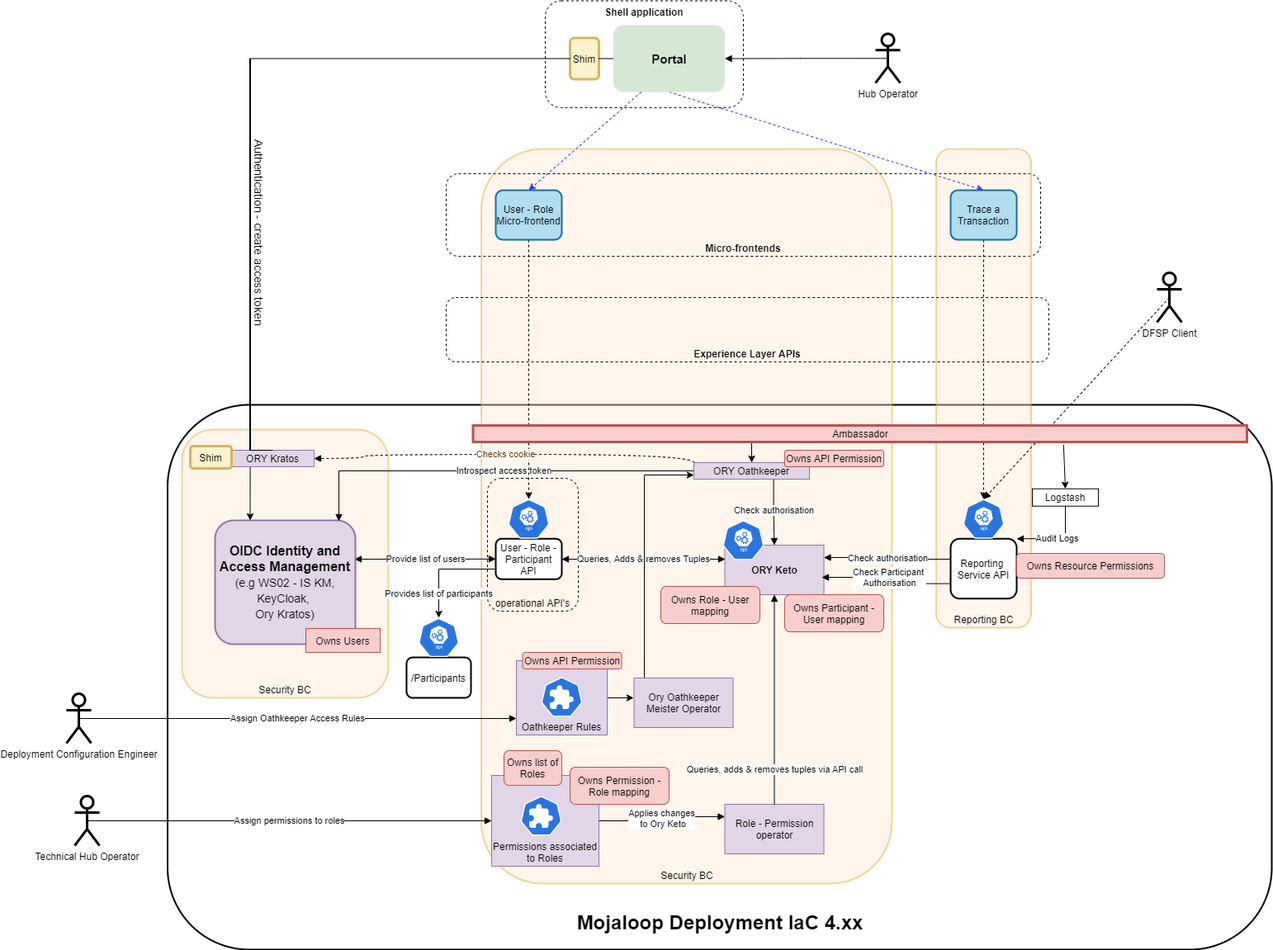
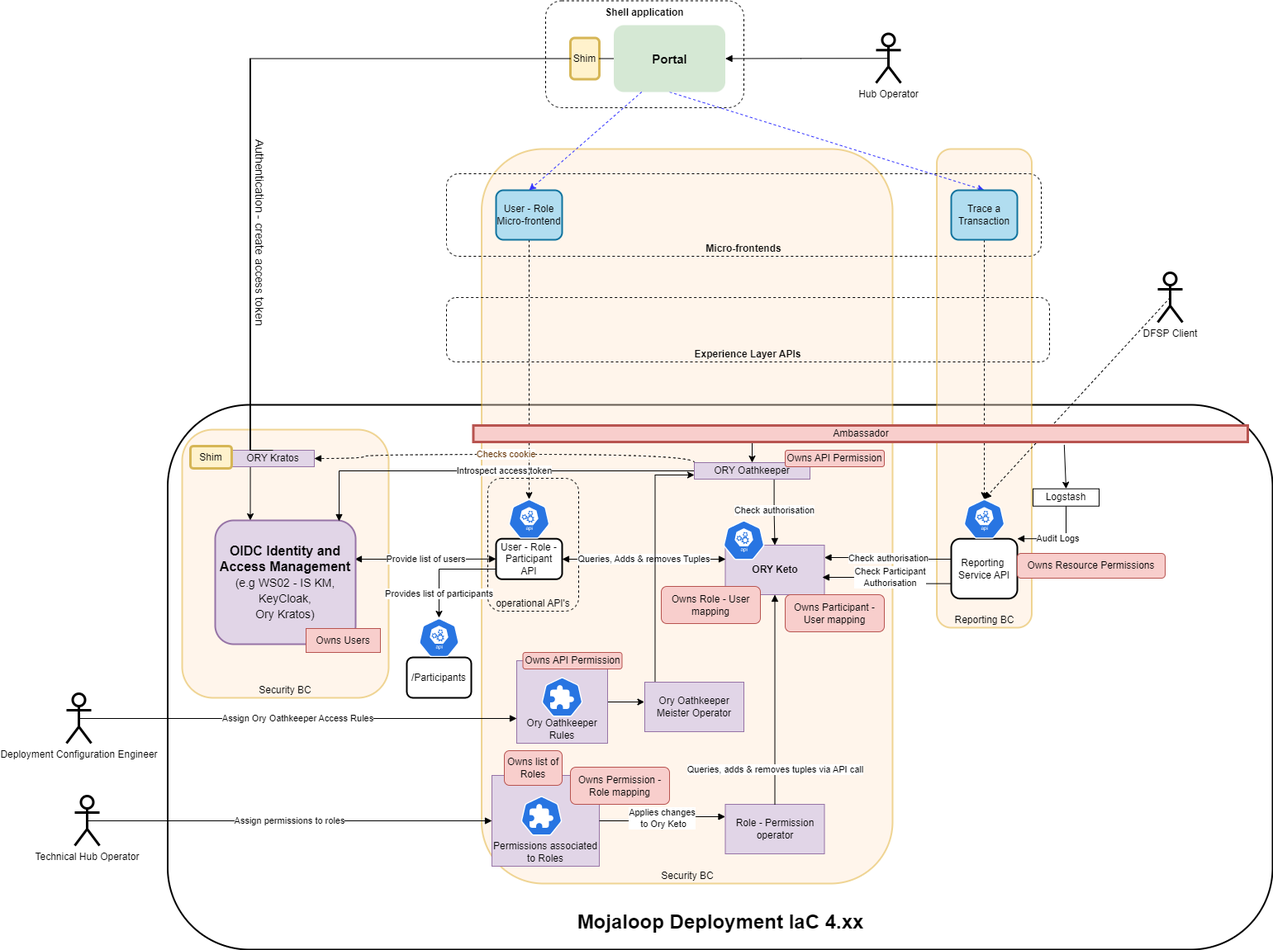
feat: Missing Ory and spelling (#36)

diff --git a/docs/guide/SecurityBC.md b/docs/guide/SecurityBC.md
@@ -13,7 +13,7 @@ The security design:
 1. Roles are assigned Permissions
 1. The Identity and Access Proxy (Ory Oathkeeper) enforces access to endpoints based on permission.
 1. Backend API can optionally check permissions through Keto API.
-1. Mutually exclusive permission sets can be defined in the system to enforce seperation of duties. 
+1. Mutually exclusive permission sets can be defined in the system to enforce separation of duties. 
 
 ## Enforcing Maker-Checker
 There are two approaches that can be taken to enforce a maker-checker validation flow.
@@ -34,7 +34,7 @@ Ory Oathkeeper is configured to use a 'header' mutator. This 'header' mutator wi
 X-User: wso2-uuid
 ```
 
-It is worth pointing out that JWT 'id_token' are also easily supported my modifying the Ory Oathkeeper mutator configuration. The 'id_token' mutator takes the authentication information (e.g. subject) and transforms it to a signed JSON Web Token, and more specifically to an OpenID Connect ID Token. The API backends can verify the token by fetching the (public) key from the /.well-known/jwks.json endpoint provided by the ORY Oathkeeper API.
+It is worth pointing out that JWT 'id_token' are also easily supported my modifying the Ory Oathkeeper mutator configuration. The 'id_token' mutator takes the authentication information (e.g. subject) and transforms it to a signed JSON Web Token, and more specifically to an OpenID Connect ID Token. The API backends can verify the token by fetching the (public) key from the /.well-known/jwks.json endpoint provided by the Ory Oathkeeper API.
 
 ### Checking authorisation
 All authorisation information is maintained within Ory Keto. Ory Keto has a standard API that can be called to check authorisation. 
@@ -60,7 +60,7 @@ Here is a table of the services and the roles they are playing.
 | Service | Owns | Implements |
 | --- | --- |
 |**WSO2 IS KM**|Users| 1. User login redirection and UI that creates the cookie token <br>2. Standard OpenID Connect (OIDC) authorization code flow |
-|**Ory Keto**|1. The roles mapped to users <br> 2. The participant mapped to users| 1. API RBAC authorization check through Oathkeeper<br>2. API RBAC authorization check through operational API call|
+|**Ory Keto**|1. The roles mapped to users <br> 2. The participant mapped to users| 1. API RBAC authorization check through Ory Oathkeeper<br>2. API RBAC authorization check through operational API call|
 |**Ory Oathkeeper**|The permissions related to API access | API gateway for operational APIs with authentication and authorization checks|
 |**Ory Kratos**|Nothing|Authentication cookie|
 |**BC Operational API**|The permissions related to the operational API calls|Operational API functions|
@@ -70,16 +70,16 @@ Here is a table of the services and the roles they are playing.
 |**Roles API**|Nothing|1. Role-user API controls <br>(list of users, list of roles, list of roles assigned to users, add role to user, remove role from user)<br> 2. Participant-user API controls <br>(list of users, list of participants, list of participants assigned to user, add participant to user, remove participant from user)|
 
 ## How does this design align with the reference architecture?
-Let's compare this RBAC Operational API implementation to the security bounded context as defined in the reference architecture. This design differs from the reference architecture in function, purpose and approach, but where appropriate has adopted some of the design ideas. This RBAC implementation's purpose is to adds a layer for security onto the operational API's of the bounded contexts. The Reference Architecture's Security Bounded Context design has been designed to accommodate for the performance requirments of the critical transactional functions of Mojaloop. 
+Let's compare this RBAC Operational API implementation to the security bounded context as defined in the reference architecture. This design differs from the reference architecture in function, purpose and approach, but where appropriate has adopted some of the design ideas. This RBAC implementation's purpose is to adds a layer for security onto the operational API's of the bounded contexts. The Reference Architecture's Security Bounded Context design has been designed to accommodate for the performance requirements of the critical transactional functions of Mojaloop. 
 Here are the high level areas where these designs diverge:
-1. The authorisation functions are centralised in this RBAC implementation. The reference architecture design requires a distributed authorisation that is implmented in each bounded context independently. This extra level of complexity is unnessary for the operational API use case.
-1. The reference architecture design requires interfaces to other bounded contexts to initiate the distributed authorisation functionallity. These have not been built for the reason that there are no components that exist that could consume these interfaces. 
+1. The authorisation functions are centralised in this RBAC implementation. The reference architecture design requires a distributed authorisation that is implemented in each bounded context independently. This extra level of complexity is unnecessary for the operational API use case.
+1. The reference architecture design requires interfaces to other bounded contexts to initiate the distributed authorisation functionality. These have not been built for the reason that there are no components that exist that could consume these interfaces. 
 1. The reference architecture requires the security BC to generate it's own security tokens. This RBAC implementation uses the tokens that are generated by the IAM.
-1. The reference architecture requires the permissions to be distributed through the JWT to each bounded context. This is possible to configure in the current toolset, but was not. The reason being that some security experts consider this distribution of user permission sets a security vulerability, and it was not a requirement for this current RBAC implementation.
+1. The reference architecture requires the permissions to be distributed through the JWT to each bounded context. This is possible to configure in the current toolset, but was not. The reason being that some security experts consider this distribution of user permission sets a security vulnerability, and it was not a requirement for this current RBAC implementation.
 
 There are parts of the security bounded context that have been adopted in this RBAC Operational API implementation.
-1. Each Bounded context owns it's own set of permissions or privledges
-1. The RBAC implementation owns all the associations of privledges to users.
+1. Each Bounded context owns it's own set of permissions or privileges
+1. The RBAC implementation owns all the associations of privileges to users.
 1. The user Role Permissions are structured so that they are easily distributed within a Kubernetes cluster.
 
 ## Alignment with IaC 4.xxx
@@ -93,9 +93,9 @@ A performance characterisation of the RBAC POC implementation was performed in o
 The RBAC adds 10ms overhead for each API authorisation check per call. 
 If a particular API call requires and additional API based authorisation call, then the overhead is 20ms.
 
-This typically in our test queries ammounted to:
+This typically in our test queries amounted to:
 1. less than 5% for single authorisation checks (Ory Oathkeeper & Ory Keto), 
-1. and less than 10% for double authorisation checks (Ory Oathkeeper & Ory Keto and an aditional Ory Keto call).
+1. and less than 10% for double authorisation checks (Ory Oathkeeper & Ory Keto and an additional Ory Keto call).
 :::
 
 **Characterisation test setup details**
@@ -124,9 +124,9 @@ Below are the results of the test calls made to the role API with and without RB
 | |**Aggregated**|	**240**|	**250**|	**250**|	**260**|	**290**|	**320**|	**400**|	**500**|
 
 ## Logging into the UI
-This sequence diagram illustrates the events that occur when a brower attemps to access a backend API. 
+This sequence diagram illustrates the events that occur when a browser attempt to access a backend API. 
 - If the browser is already logged in, then the request is forwarded. 
-- If the brower is not logged in, then a standard OIDC authorization flow is triggered starting with a redirect.
+- If the browser is not logged in, then a standard OIDC authorization flow is triggered starting with a redirect.
 
 ![Sequence diagram illustrating how a brower logs in](../.vuepress/public/frontend.png) 
 
@@ -141,17 +141,17 @@ The micro-frontend is represented as a client.
 
 In some cases there might be a requirement for a more detailed authorization check to be performed by the operational API. The next sequence diagram describes how that is implemented.
 
-It is important to note that not all operational APIs will require this level of authorization, and that the Oathkeeper control may or may not be required in this use case.
+It is important to note that not all operational APIs will require this level of authorization, and that the Ory Oathkeeper control may or may not be required in this use case.
 
 ![Sequence diagram illustrating how an API client call has its authorization performed](../.vuepress/public/clientgraphql.png) 
 
 ## Enforcing Seperation of Duties
-This RBAC implemenation supports the enforcement of seperation of duties by the enforcement of mutually exclusive permissions sets. The implementation of separation of duty creates tighter security but can lead to complexity for the security administrator and the end users who use the system. Enforcing mutually exclusive permissions can reduce and help manage this complexity.
+This RBAC implementation supports the enforcement of separation of duties by the enforcement of mutually exclusive permissions sets. The implementation of separation of duty creates tighter security but can lead to complexity for the security administrator and the end users who use the system. Enforcing mutually exclusive permissions can reduce and help manage this complexity.
 
 An example of mutually exclusive permissions might be a user being able to access the Finance Portal and to carry out sensitive functions such as add/withdraw funds. This user should not also have access to audit functions.
 
 ### Modelling the exclusion
-This implementation models this requirment as a set of mutually exclusive permission - permission exclusions that are enforced globally. These exclusions are defined as two sets of permissions that are mutually exclusive which is intuitive and easy to maintain.
+This implementation models this requirements as a set of mutually exclusive permission - permission exclusions that are enforced globally. These exclusions are defined as two sets of permissions that are mutually exclusive which is intuitive and easy to maintain.
 
 *Justification*
 There are three possible ways that this exclusion could have been modelled namely:
@@ -179,7 +179,7 @@ There are a number of places that this dynamic check needs to take place.
 1. On the application of a new role-permission resource definition, or the application of a new security policy that may include a wholesale change of permission and role structures.
 ::: warning Future extension:
 If it is possible that a violation can exist in the system, then each time a permission is checked, exclusion violations should also be checked. Currently this is not designed for as it is assumed that 1 & 2 are sufficiently implemented that a violation cannot exist.
-It is recommended that this additional check be roadmapped for future extensions as this would ensure that no back-door override can be made to violate this seperation of duties.
+It is recommended that this additional check be roadmapped for future extensions as this would ensure that no back-door override can be made to violate this separation of duties.
 :::
 
 ::: tip Note: 
@@ -399,26 +399,26 @@ Mutally excluded permissions don't need to be check excplicitly through a Keto c
 :::
 
 ## Ory Oathkeeper – implementation detail
-### Configuring Oathkeeper for BizOps
+### Configuring Ory Oathkeeper for BizOps
 
-[ORY Oathkeeper](https://www.ory.sh/oathkeeper/docs/next/) authorizes incoming HTTP requests. It can be the Policy Enforcement Point in your cloud architecture, that is, a reverse proxy in front of your upstream API or web server that rejects unauthorized requests and forwards authorized ones to your server. If you want to use another API Gateway (Kong, Nginx, Envoy, AWS API Gateway, and so on), Oathkeeper can also plug into that and act as its Policy Decision Point.
-
-
-The Oathkeeper Helm chart is described at [ORY Oathkeeper Helm Chart | k8s](https://k8s.ory.sh/helm/oathkeeper.html) and defined in [k8s/helm/charts/oathkeeper at master · ory/k8s · GitHub](https://github.com/ory/k8s/tree/master/helm/charts/oathkeeper). The Ory Helm repository is documented at [ORY Helm Charts | k8s](https://k8s.ory.sh/helm/). The Oathkeeper configuration reference is at [Configuration | ORY Oathkeeper](https://www.ory.sh/oathkeeper/docs/reference/configuration) but note that the Helm chart values have different ways of doing certain things. Also, every configuration value can be overridden with environment variables. 
+[ORY Oathkeeper](https://www.ory.sh/oathkeeper/docs/next/) authorizes incoming HTTP requests. It can be the Policy Enforcement Point in your cloud architecture, that is, a reverse proxy in front of your upstream API or web server that rejects unauthorized requests and forwards authorized ones to your server. If you want to use another API Gateway (Kong, Nginx, Envoy, AWS API Gateway, and so on), Ory Oathkeeper can also plug into that and act as its Policy Decision Point.
 
 
-The Oathkeeper Helm chart deploys two key components into Kubernetes: Oathkeeper itself, and the Oathkeeper Maester. Oathkeeper is stateless and config-driven, and seamlessly reloads itself with zero downtime, anytime that config changes. Oathkeeper Maester is a controller for the Rule CRD, and composes the Rule objects in Kubernetes into a single complete rules file that is loaded by Oathkeeper.  By default, that is a ConfigMap that Oathkeeper mounts, but it can also be set to run as a sidecar and use a shared mount.
+The Ory Oathkeeper Helm chart is described at [ORY Oathkeeper Helm Chart | k8s](https://k8s.ory.sh/helm/oathkeeper.html) and defined in [k8s/helm/charts/oathkeeper at master · ory/k8s · GitHub](https://github.com/ory/k8s/tree/master/helm/charts/oathkeeper). The Ory Helm repository is documented at [ORY Helm Charts | k8s](https://k8s.ory.sh/helm/). The Ory Oathkeeper configuration reference is at [Configuration | ORY Oathkeeper](https://www.ory.sh/oathkeeper/docs/reference/configuration) but note that the Helm chart values have different ways of doing certain things. Also, every configuration value can be overridden with environment variables. 
 
 
-Oathkeeper exposes two ports as two services. One service is the API service, and the other is the Proxy service. Long-term, we will be using the API service, which will be queried by the next generation API Gateway using the Access Control Decision API  (see [REST API | ORY Oathkeeper](https://www.ory.sh/oathkeeper/docs/reference/api/#access-control-decision-api) ) that Oathkeeper provides, but for now we will be using the Proxy service, and exposing that via Ingress. External URLs to services protected by Oathkeeper will be pointed at  the Oathkeeper Proxy ingress, which will then proxy access to the internal services at those URLs and apply access control rules.
+The Ory Oathkeeper Helm chart deploys two key components into Kubernetes: Ory Oathkeeper itself, and the Ory Oathkeeper Maester. Ory Oathkeeper is stateless and config-driven, and seamlessly reloads itself with zero downtime, anytime that config changes. Ory Oathkeeper Maester is a controller for the Rule CRD, and composes the Rule objects in Kubernetes into a single complete rules file that is loaded by Ory Oathkeeper.  By default, that is a ConfigMap that Ory Oathkeeper mounts, but it can also be set to run as a sidecar and use a shared mount.
 
 
-Oathkeeper will be configured to generate and sign a JSON Web Token (JWT) containing claims that internal services can check and verify by pointing at the JSON Web Key Set (JWKS) that Oathkeeper will publish (which is part of the configuration) at the well-known URL for JWKS on the API service (see [REST API | ORY Oathkeeper](https://www.ory.sh/oathkeeper/docs/reference/api/#lists-cryptographic-keys) ). If a service does this, then it is operating under a basic zero trust regime, as it will not be possible to call that service except with a token that has been generated by Oathkeeper, and Oathkeeper will only generate a token if the access rules for the given URL allow access.
+Ory Oathkeeper exposes two ports as two services. One service is the API service, and the other is the Proxy service. Long-term, we will be using the API service, which will be queried by the next generation API Gateway using the Access Control Decision API  (see [REST API | ORY Oathkeeper](https://www.ory.sh/oathkeeper/docs/reference/api/#access-control-decision-api) ) that Ory Oathkeeper provides, but for now we will be using the Proxy service, and exposing that via Ingress. External URLs to services protected by Ory Oathkeeper will be pointed at the Ory Oathkeeper Proxy ingress, which will then proxy access to the internal services at those URLs and apply access control rules.
+
+
+Ory Oathkeeper will be configured to generate and sign a JSON Web Token (JWT) containing claims that internal services can check and verify by pointing at the JSON Web Key Set (JWKS) that Ory Oathkeeper will publish (which is part of the configuration) at the well-known URL for JWKS on the API service (see [REST API | ORY Oathkeeper](https://www.ory.sh/oathkeeper/docs/reference/api/#lists-cryptographic-keys) ). If a service does this, then it is operating under a basic zero trust regime, as it will not be possible to call that service except with a token that has been generated by Ory Oathkeeper, and Ory Oathkeeper will only generate a token if the access rules for the given URL allow access.
 
 
 
 ### Debugging
-The responses and logs from Oathkeeper tend to be pretty informative, so start there. Make sure you are looking at the logs for the request that matters. Oathkeeper will also be logging health checks and similar. 
+The responses and logs from Ory Oathkeeper tend to be pretty informative, so start there. Make sure you are looking at the logs for the request that matters. Ory Oathkeeper will also be logging health checks and similar. 
 
 
 Some possible debugging actions that have been found useful in different circumstances:
@@ -432,7 +432,7 @@ Some possible debugging actions that have been found useful in different circums
 
 * Make sure that the domains and ports for introspection and the external token endpoint are identical. Keycloak at least does not like it if they are not.
 
-* Point the Oathkeeper rule at https://httpbin.org/, usually the `/anything` path prefix which will reflect back everything it gets, making it easy to see what the service will see.
+* Point the Ory Oathkeeper rule at https://httpbin.org/, usually the `/anything` path prefix which will reflect back everything it gets, making it easy to see what the service will see.
 
 
 ### Components required in addition to a Helm chart
@@ -446,7 +446,7 @@ The following pieces will be needed in addition to the Helm chart:
 #### JWKS secret
 
 
-A secret should be created with key `mutator.id_token.jwks.json` and the value of a JWKS suitable for use with Oathkeeper. An initial one can be generated as described in [Configure and Deploy | ORY Oathkeeper](https://www.ory.sh/oathkeeper/docs/configure-deploy#cryptographic-keys). It will contain both public and private keys.
+A secret should be created with key `mutator.id_token.jwks.json` and the value of a JWKS suitable for use with Ory Oathkeeper. An initial one can be generated as described in [Configure and Deploy | ORY Oathkeeper](https://www.ory.sh/oathkeeper/docs/configure-deploy#cryptographic-keys). It will contain both public and private keys.
 
 
 ##### Operating with the JWKS secret
@@ -455,8 +455,8 @@ A secret should be created with key `mutator.id_token.jwks.json` and the value o
 To rotate the secret, apply the following procedure:
 
 0. Note the time.
-1. Add a public and private key pair to the beginning of the array in the JWKS (make sure all public JWKs have a specified unique `kid`) in the secret. All keys other than the new keys and the previous first public and private keys can be removed. This is because Oathkeeper always signs with the first key.
-2. Wait until all requests that Oathkeeper might have received and authorized would have had their JWT handled by the backend service. The main delay here is the time for the secret update to propagate, comprising the delay of the secret manager to the updated secret and the delay of the secret to the updated volume, which is probably at most a minute or two, so wait that long after the time in step 0.
+1. Add a public and private key pair to the beginning of the array in the JWKS (make sure all public JWKs have a specified unique `kid`) in the secret. All keys other than the new keys and the previous first public and private keys can be removed. This is because Ory Oathkeeper always signs with the first key.
+2. Wait until all requests that Ory Oathkeeper might have received and authorized would have had their JWT handled by the backend service. The main delay here is the time for the secret update to propagate, comprising the delay of the secret manager to the updated secret and the delay of the secret to the updated volume, which is probably at most a minute or two, so wait that long after the time in step 0.
 3. If the old secret is being removed (this is only necessary if a breach is suspected, otherwise step 1 is sufficient for periodic key rotation), remove it now.
 
 #### Annotated Helm values
@@ -466,7 +466,7 @@ Several places will need to be changed to the rest-of-deployment-specific URLs o
 
 How to setup the Proxy ingress is undecided at the time, as it will need to change when the solution is added to the IaC 3.xxx so that area of the config is still unspecified. This leaves the ingress out by default. Changing `ingress.proxy.enabled` to `true` will enable the proxy ingress. See the linked pages at the beginning for options  available for the built-in ingress configuration.
 
-If TLS needs to be terminated at Oathkeeper, see the `tls` sections in the [config documentation](https://www.ory.sh/oathkeeper/docs/reference/configuration), and combine that with secrets and the `deployment.extraVolumes` and `deployment.extraVolumeMounts` values.
+If TLS needs to be terminated at Ory Oathkeeper, see the `tls` sections in the [config documentation](https://www.ory.sh/oathkeeper/docs/reference/configuration), and combine that with secrets and the `deployment.extraVolumes` and `deployment.extraVolumeMounts` values.
 Prometheus is at `:9000/metrics` by default, if that is in use.
 
 
@@ -564,7 +564,7 @@ Rule resources will need to be created in Kubernetes for each backend "match" (U
 As the flexibility to define third-party services and bounded contexts increases, they can define their own rules (perhaps behind a Helm values flag), which express which permissions should be required for which URLs. 
 
 
-The biggest potential issue here is that each match MUST be unique. If a request matches multiple, Oathkeeper will complain. Once a general pattern is picked that results in unique regexes, this will not happen except with user error.
+The biggest potential issue here is that each match MUST be unique. If a request matches multiple, Ory Oathkeeper will complain. Once a general pattern is picked that results in unique regexes, this will not happen except with user error.
 
 ```yaml
 
@@ -609,7 +609,7 @@ spec:
     - handler: id_token
 
 ```
-### Configure Oathkeeper to use Kratos as its cookie Authenticator
+### Configure Ory Oathkeeper to use Kratos as its cookie Authenticator
 This part of the config above is applicable. Reference documentation for Ory Oathkeeper authenticators is found [here](https://www.ory.sh/oathkeeper/docs/next/pipeline/authn).
 
 ```yaml
@@ -630,7 +630,7 @@ This part of the config above is applicable. Reference documentation for Ory Oat
 
 ```
 
-### Configure Oathkeeper to use WSO2 ISKM for token introspection
+### Configure Ory Oathkeeper to use WSO2 ISKM for token introspection
 Reference documentation is found [here](https://www.ory.sh/oathkeeper/docs/next/pipeline/authn).
 
 ```yaml
@@ -649,7 +649,7 @@ Reference documentation is found [here](https://www.ory.sh/oathkeeper/docs/next/
             ttl: "60s"
 ```
 
-### Configure Oathkeeper to use Keto as its authorizer
+### Configure Ory Oathkeeper to use Ory Keto as its authorizer
 This part of the config above is applicable.
 Reference documentation about Ory Oathkeeper authorizers is found [here](https://www.ory.sh/oathkeeper/docs/next/pipeline/authz).
 
@@ -679,7 +679,7 @@ It is useful to know that Kratos can also provided flows for:
   
 
 ### Deployment details
-The Kratos Helm Chart is described at [ORY Kratos Helm Chart | k8s](https://k8s.ory.sh/helm/kratos.html) and defined at [k8s/helm/charts/kratos at master · ory/k8s · GitHub](https://github.com/ory/k8s/tree/master/helm/charts/kratos). Unlike Oathkeeper, it does not have any related Maester handling a CRD. It does, however, need a database (which can be MySQL, PostgreSQL, CockroachDB, or a few others). The Helm repository is the same as for Oathkeeper, and documented at [ORY Helm Charts | k8s](https://k8s.ory.sh/helm/). A configuration reference is at [Configuration | Ory Kratos](https://www.ory.sh/kratos/docs/reference/configuration), but note that the Helm chart works slightly differently.
+The Kratos Helm Chart is described at [ORY Kratos Helm Chart | k8s](https://k8s.ory.sh/helm/kratos.html) and defined at [k8s/helm/charts/kratos at master · ory/k8s · GitHub](https://github.com/ory/k8s/tree/master/helm/charts/kratos). Unlike Ory Oathkeeper, it does not have any related Maester handling a CRD. It does, however, need a database (which can be MySQL, PostgreSQL, CockroachDB, or a few others). The Helm repository is the same as for Ory Oathkeeper, and documented at [ORY Helm Charts | k8s](https://k8s.ory.sh/helm/). A configuration reference is at [Configuration | Ory Kratos](https://www.ory.sh/kratos/docs/reference/configuration), but note that the Helm chart works slightly differently.
 
 
 In addition to a database, the other major difference for Kratos is that it requires a user interface, in the form of a small web application that handles rendering the current stage of what’s happening with Kratos to the browser and also doing the necessary backend communication to make that happen securely. In our case, the UI we’ll use is very simple, and is never actually visible—all it will do is immediately forward to the one OIDC Identity Provider (IdP) we’ll have configured and receive the related callback. This UI application has already been created and open sourced in the `modusbox` repository, and releases public docker images in the GitHub docker registry. The UI can be found at [GitHub - modusbox/kratos-ui-oidcer: A Kratos UI for forwarding immediately to a single configured OIDC provider](https://github.com/modusbox/kratos-ui-oidcer), and is a very minimal Rust application with excellent test coverage and a tiny docker image (about 5 megabytes, https://github.com/modusbox/kratos-ui-oidcer/pkgs/container/oidcer ). It is referred to as 'Shim' in the above design documentation.

diff --git a/docs/index.md b/docs/index.md
@@ -6,7 +6,7 @@ actionText: Technical Guide →
 actionLink: /guide/
 features:
 - title: RBAC Operational API implementation
-  details: This section details how the RBAC security features for the operational API's are implmented in the current Mojaloop version.
+  details: This section details how the RBAC security features for the operational API's are implemented in the current Mojaloop version.
 - title: Micro-service and JAMStack UI Framework
   details: This section details the tech stack, and how the elements of the micro-service and JAMStack are implemented.
 - title: Reporting Bounded Context
